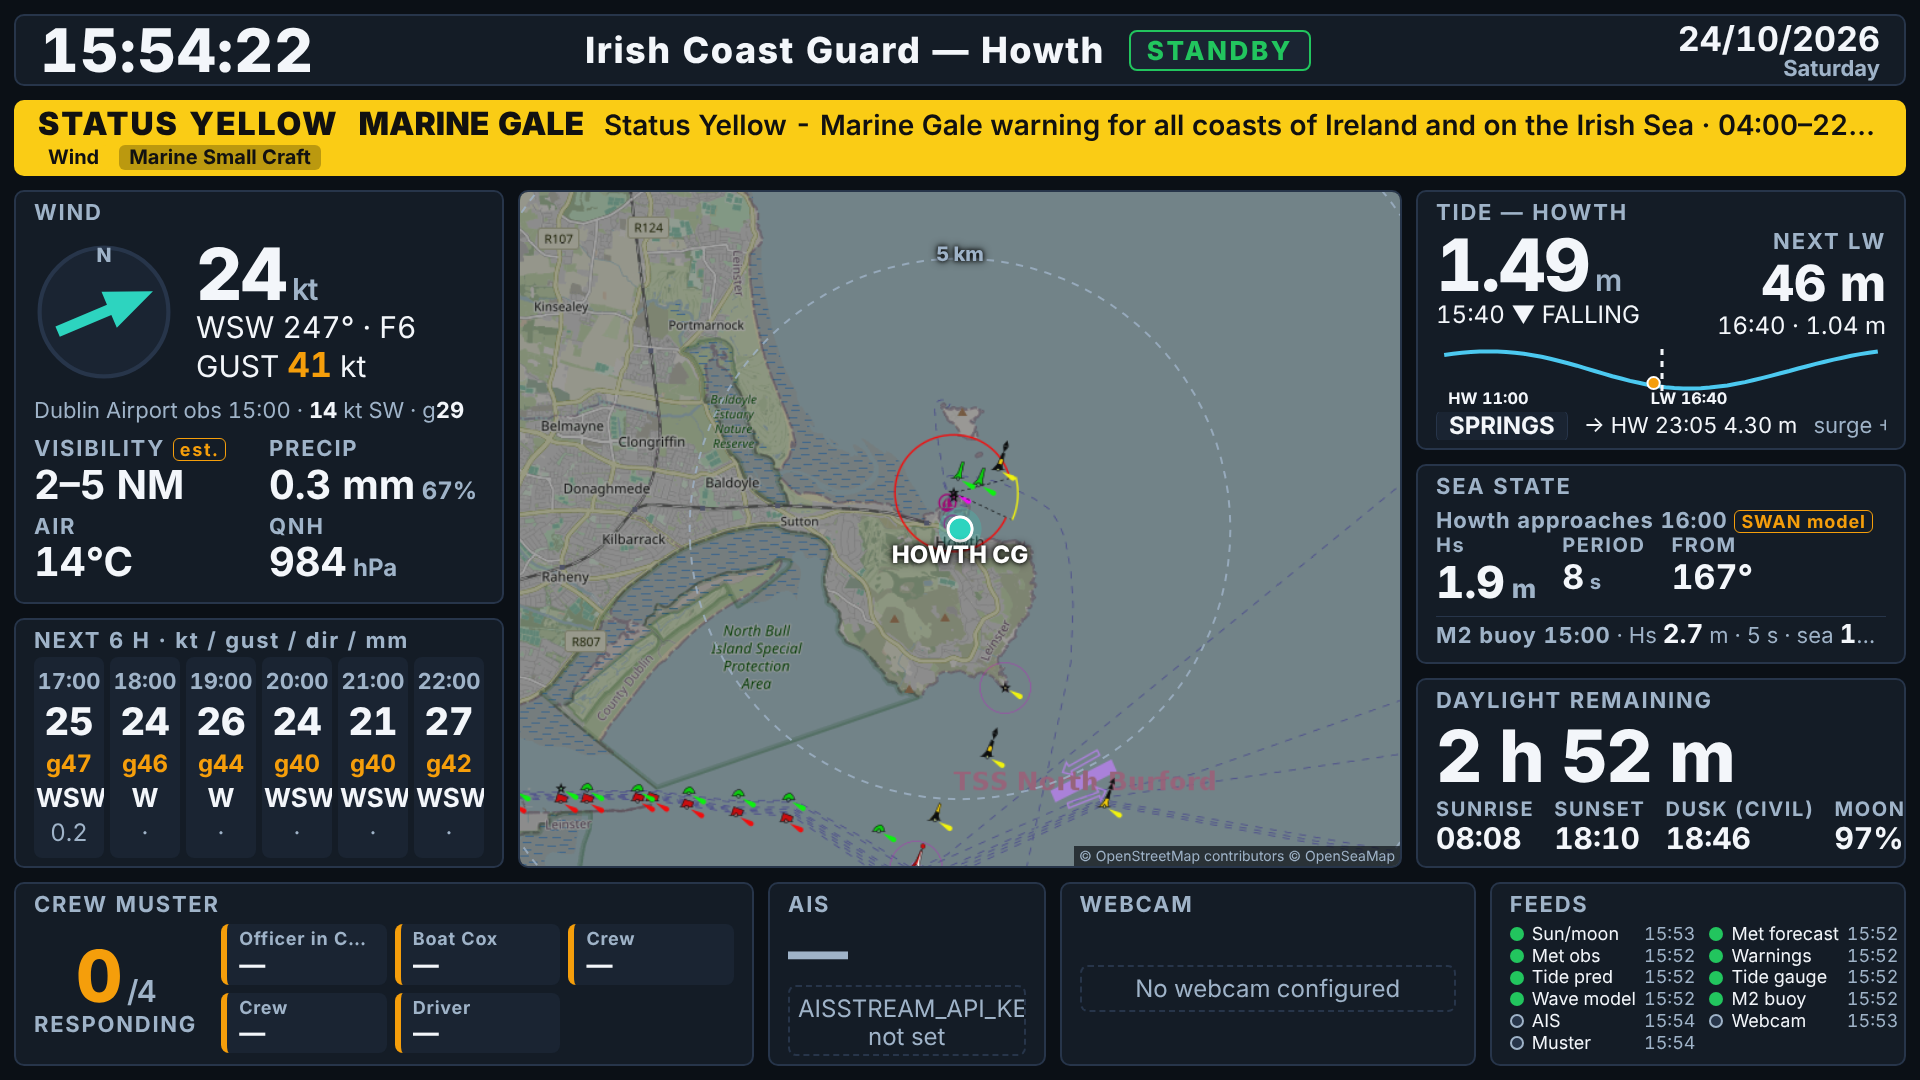
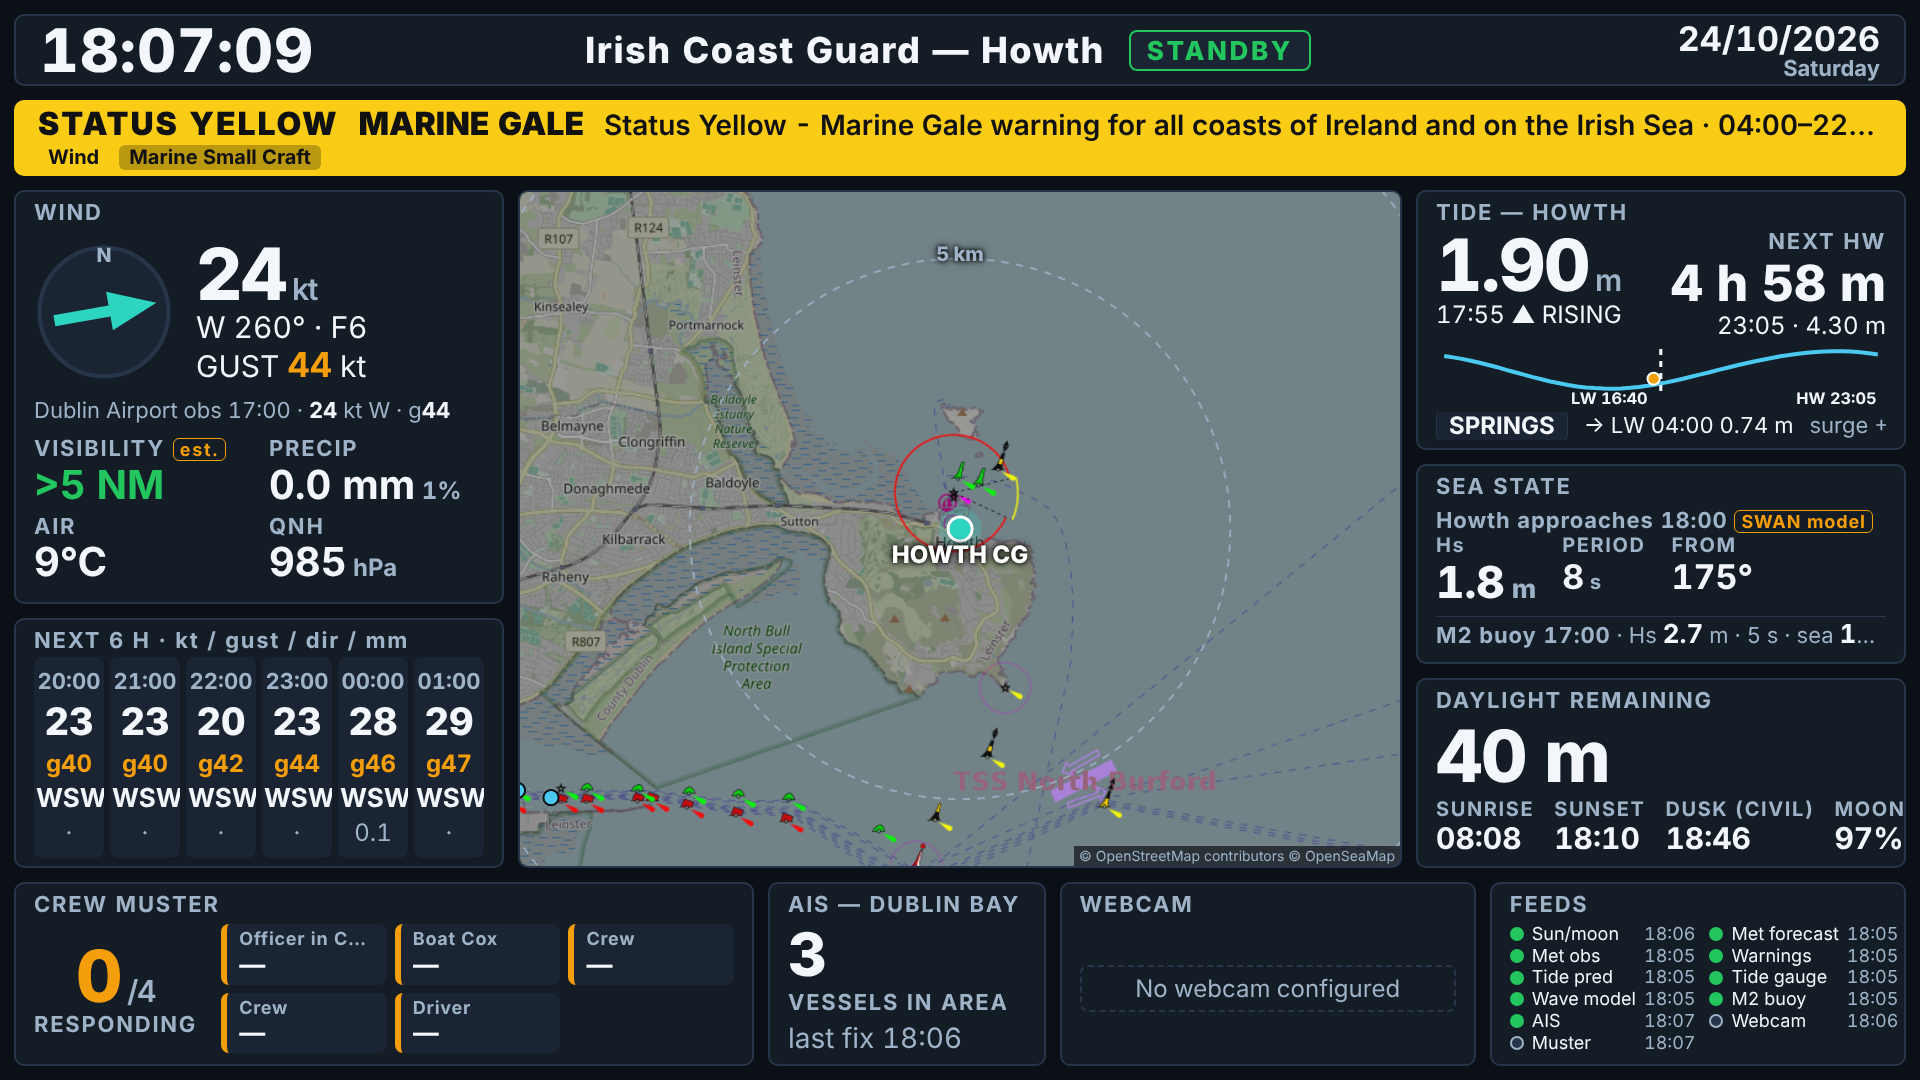
AIS verified live; start-up grace for the stream provider
- aisstream.io feed confirmed with a real key: vessels in the Dublin Bay
  box arrive within a minute. README verification row updated and the
  standby screenshot now shows live AIS dots and count.
- AIS provider no longer reports a failure on the first poll while the
  WebSocket is still connecting (60 s grace).

Claude-Session: https://claude.ai/code/session_01TX97c6f6FTAfNcAqCziyBA

diff --git a/server/src/providers/ais.ts b/server/src/providers/ais.ts
@@ -51,6 +51,7 @@ export function aisProvider(cfg: AppConfig): Provider {
   let reconnectTimer: NodeJS.Timeout | undefined;
   let lastMessageAt: string | undefined;
   let ctxRef: ProviderContext | undefined;
+  let startedAt = 0;
 
   function connect() {
     if (stopped || !hasKey || !ctxRef) return;
@@ -105,6 +106,7 @@ export function aisProvider(cfg: AppConfig): Provider {
     start(ctx) {
       ctxRef = ctx;
       stopped = false;
+      startedAt = Date.now();
       connect();
     },
     stop() {
@@ -116,12 +118,14 @@ export function aisProvider(cfg: AppConfig): Provider {
       expireVessels(table, c.vesselTtlMin * 60_000);
       const vessels = [...table.values()].sort((a, b) => a.mmsi - b.mmsi);
       const ais: AisState = { vessels, count: vessels.length, connected, bbox: c.bbox, updatedAt: lastMessageAt };
-      if (hasKey && !connected && table.size === 0) throw new Error('aisstream not connected');
+      // Give the stream 60 s to come up before the first poll counts as a failure.
+      if (hasKey && !connected && table.size === 0 && Date.now() - startedAt > 60_000) throw new Error('aisstream not connected');
       return { ais };
     },
     health(): Partial<ProviderHealth> {
       if (!hasKey) return {};
-      return connected ? {} : { status: lastMessageAt ? 'stale' : 'error', lastError: 'aisstream not connected' };
+      if (connected || Date.now() - startedAt < 60_000) return {};
+      return { status: lastMessageAt ? 'stale' : 'error', lastError: 'aisstream not connected' };
     },
   };
 }

diff --git a/README.md b/README.md
@@ -39,7 +39,7 @@ Each endpoint was exercised live before code was written against it.
 | 2 | Dublin Bay buoy | ❌ not on ERDDAP | No Dublin Bay wave buoy dataset exists on erddap.marine.ie (searched "dublin", "buoy", "wave", listed all wave-network stations). **Substituted** with the Marine Institute Irish Shelf SWAN wave model sampled at 53.40 N 5.95 W, labelled "SWAN model" on screen. If a Dublin Port Company feed turns up, add a provider writing `sea.local`. |
 | 2 | M2 weather buoy — ERDDAP `IWBNetwork` | ✅ works | Hourly; wind already in knots, Hs in m, sea temp. |
 | 3 | Sun/moon | ✅ local | `suncalc`. |
-| 4 | AIS — aisstream.io | ⚠ needs key | Site reachable, protocol implemented (bounding box Dublin Bay/Howth), **not verified live** — no key was available. Set `AISSTREAM_API_KEY`; until then the panel is a placeholder. |
+| 4 | AIS — aisstream.io | ✅ works (key required) | Verified live with a free key: WebSocket stream bounded to Dublin Bay/Howth, vessels appear within a minute (ferries, ILV Granuaile, naval). Set `AISSTREAM_API_KEY`; without it the panel is a placeholder. |
 | 5 | Howth Harbour webcam | ❌ stubbed | No stable, embeddable still-image URL found (only aggregator pages on windy/yr, and Afloat's Sandycove stream which looks *at* Howth from across the bay). Set `WEBCAM_IMAGE_URL` to any JPEG/PNG still and the panel works. |
 | 6 | Map tiles | ✅ works | OSM standard tiles (dimmed) + OpenSeaMap seamarks. CARTO dark tiles now require an API key and were dropped. One kiosk is within the OSM tile usage policy; for a fleet, self-host tiles. |
 
